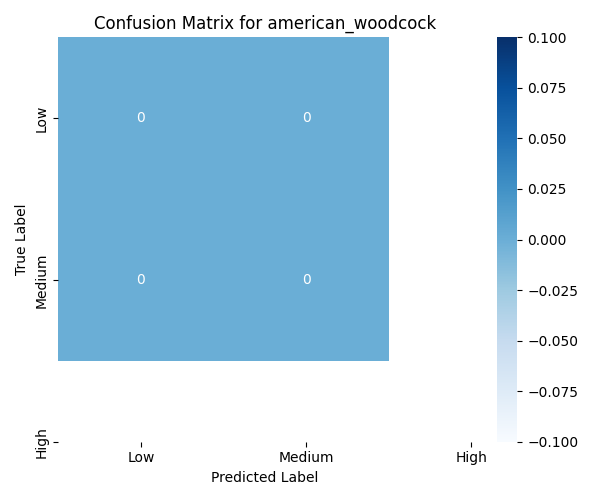
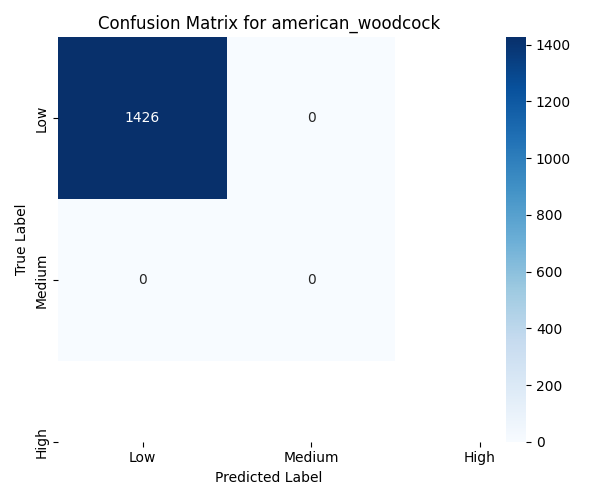
fix heatmap bug

diff --git a/vis/visualizations.py b/vis/visualizations.py
@@ -83,17 +83,20 @@ def plot_confusion_matrix(y_true, y_pred, species_name, class_names=None):
         y_true = pd.Series(y_true)
         y_pred = pd.Series(y_pred)
 
-        # Suppress the single-label sklearn warning
+        # Suppress only the single-label sklearn warning
         with warnings.catch_warnings():
             warnings.simplefilter("ignore", category=UserWarning)
-            
-            # Check if single class is present
-            unique_labels = set(y_true) | set(y_pred)
-            if len(unique_labels) < 2:
-                logger.warning(f"Species {species_name} has only a single class present. Using a dummy confusion matrix.")
-                cm = pd.DataFrame([[0, 0], [0, 0]], index=labels, columns=labels)
-            else:
-                cm = confusion_matrix(y_true, y_pred, labels=labels)
+            cm = confusion_matrix(y_true, y_pred, labels=labels)
+
+        # If the confusion matrix is 1x1 (single class), pad it to 2x2
+        if cm.shape != (2, 2):
+            full_cm = pd.DataFrame(0, index=labels, columns=labels)
+            for i, label_true in enumerate(labels):
+                for j, label_pred in enumerate(labels):
+                    if label_true in y_true.values and label_pred in y_pred.values:
+                        mask = (y_true == label_true) & (y_pred == label_pred)
+                        full_cm.loc[label_true, label_pred] = mask.sum()
+            cm = full_cm.values
 
         # Plot heatmap
         plt.figure(figsize=(6, 5))
